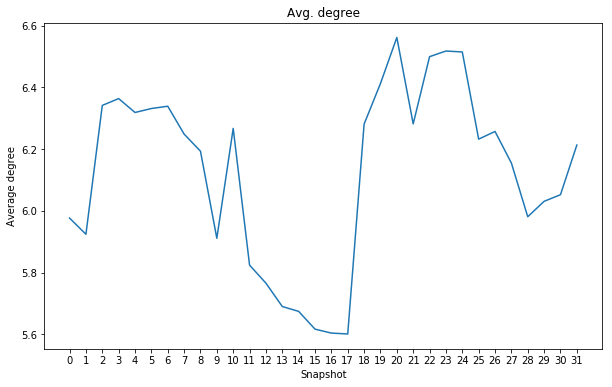
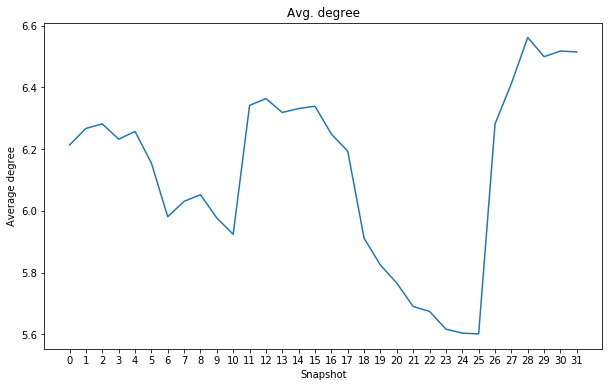
JESUS CHRIST everything was wrong
Fixed the dataset, images updated with new data and corrected
portions of thesis when the erronous data was being examined. Almost
done with k-connnectivity.

diff --git a/results/results.tex b/results/results.tex
@@ -205,13 +205,13 @@
 		\label{monthly_nodes}
 	\end{figure}
 	
-	Figure \ref{monthly_nodes} displays the trend of the churning nodes from May 15th to June 27h. Differently from what has been observed on the daily trends, here the gaps between the number of nodes across the various snapshot is more pronounced even though the overall variation at the end of the observation period results only to be +1.03\%, however the maximum size the network reached was 886 nodes while the lowest was 682.
+	Figure \ref{monthly_nodes} displays the trend of the churning nodes from May 15th to June 27h. Differently from what has been observed on the daily trends, here the overall variation at the end of the observation period is, as expected, more pronounced as the size of the network has seen a +13.73\% joining rate.
 	
 	\begin{center}
 		\begin{tabulary}{\linewidth}{| L | C | C | C | C | C |}
 			\hline	
 			& Starting nodes & Final nodes  & Variation(\%) & Max num. of nodes & Min num. of nodes \\ \hline
-			May 15th - June 27th & 771 & 779 & +1.03\% & 886 & 682 \\ \hline
+			May 15th - June 27th & 779 & 886 & +13.73\% & 886 & 682 \\ \hline
 		\end{tabulary}
 	\end{center}
 	
@@ -223,13 +223,13 @@
 		\label{monthly_edges}
 	\end{figure}
 
-	Edges trend follow the same nodes trend as it has been already showed with the daily trends. Here the gap between highs and lows are even more pronounced due to the fact that it is likely that nodes have more than one channel towards other nodes. This graph helps to understand better the dynamic nature of the Lightning Network channels, as the churning rate of edges is higher than the one accounting for the nodes. 
+	Edges trend follow the same nodes trend as it has been already showed with the daily trends. Here the gap between highs and lows are even more pronounced due to the fact that it is likely that nodes have more than one channel towards other nodes and this is reflected by the variation observed with respect to the nodes, being it +19.25\%. This graph helps to understand better the dynamic nature of the Lightning Network channels, as the churning rate of edges is higher than the one accounting for the nodes. 
 	
 	\begin{center}
 		\begin{tabulary}{\linewidth}{| L | C | C | C | C | C |}
 			\hline	
 			& Starting channels & Final channels  & Variation(\%) & Max num. of channels & Min num. of channels \\ \hline
-			May 15th - June 27th & 2304 & 2420 & +5.03\% & 2886 & 1910 \\ \hline
+			May 15th - June 27th & 2420 & 2886 & +19.25\% & 2886 & 1910 \\ \hline
 		\end{tabulary}
 	\end{center}
 	
@@ -248,13 +248,13 @@
 		\begin{tabulary}{\linewidth}{| L | C | C | C | C | C |}
 			\hline	
 			& Starting degree (avg.) & Final degree (avg.)  & Variation(\%) & Max avg.degree & Min avg. degree \\ \hline
-			May 15th - June 27th & 5.97 & 6..21 & +3.95\% & 6.56 & 5.60 \\ \hline
+			May 15th - June 27th & 6.21 & 6.51 & +4.85\% & 6.56 & 5.60 \\ \hline
 		\end{tabulary}
 	\end{center}
 	
 	\subsection{Monthly diameter}
 	
-	The diameter essentially falls within the already known bounds found during their analysis over a daily time window, although, thanks to a wider observation period, it is possible to see how frequent the oscillation between different diameters are. The network diameter oscillates between 7 and 8 and the importance of this data will be better explained in the next session, but shortly, if a payment uses the geodesic distance as the preferred method to deliver funds, then it would mean that in the worst case there is the need to cross 7 (or 8) channels before reaching the desired peer. Keeping track of this feature may help to balance the network in a way so that new channels can fill the gap between less connected clusters.
+	The diameter essentially falls within the already known bounds found during their analysis over a daily time window, although, thanks to a wider observation period, it is possible to see how frequent the oscillation between different diameters are. In the case in exam, the plot shows a period in which the network has seen an increase that lasted for 22 days. the importance of this data will be better explained in the next session, but shortly, if a payment uses the geodesic distance as the preferred method to deliver funds, then it would mean that in the worst case there is the need to cross 7 (or 8) channels before reaching the desired peer. Keeping track of this feature may help to balance the network in a way so that new channels can fill the gap between less connected clusters or to be aware of failures of central nodes.
 	
 	\begin{figure}
 		\centering
@@ -315,9 +315,9 @@
 	
 	\begin{figure}
 		\centering
-		\includegraphics[width=\linewidth]{monthy_gantt_chart}
-		\caption{The graph represents the nodes that occupied the first 5 position whose score was the best among the rest of the other nodes.}
-		\label{monthly_gantt}
+		\includegraphics[width=\linewidth]{monthly_betweenness_centrality}
+		\caption{Betweenness Centrality (Monthly)}
+		\label{monthly_betweenness_centrality}
 	\end{figure}		
 	
 	The data in Figure \ref{daily_betweenness} picks the top 5 nodes according to their betweenness centrality aggregated score. The aggregated score means that the centrality gets first evaluated for every node of the intersection $V = \{V_1 \cap V_2 \cap \cdots V_k \}$, where $k$ is the number of snapshot and $V_i$ being the set of nodes of each snapshot, then
@@ -332,25 +332,60 @@
 	
 	\begin{figure}
 		\centering
-		\includegraphics[width=\linewidth]{monthly_betweenness_centrality}
-		\caption{Betweenness Centrality (Monthly)}
-		\label{monthly_betweenness_centrality}
+		\includegraphics[width=\linewidth]{monthly_gantt_chart}
+		\caption{The graph represents the nodes that occupied the first 5 position whose score was the best among the rest of the other nodes.}
+		\label{monthly_gantt}
 	\end{figure}
 
 	As expected, the scores appear to be constant or with low variations along the 144 snapshots. The nodes are identified by the first five characters of their public key, and by looking at those IDs it emerges that the set is different for all their snapshot meaning that indeed new nodes joined the network during the five days elapsed between each snapshot and attached to already well established nodes. 
 	
-	Figure \ref{monthly_gantt} shows which nodes occupied the first five positions during the period that goes from May 15th to June 27th. For each day, the nodes that scored the highest betweenness centrality score are showed here, for a total of 9 nodes that alternates each other throughout the observation period. This plot helps to keep track of the different set of nodes observed in the daily plots, and to understand better the mobility of a node in the network since the betweenness centrality largely depends essentially on how many open channels are between the node and the rest of the network.
-	
 	This aspect is even more pronounced if we look at Figure \ref{monthly_betweenness_centrality} where the monthly behavior is displayed and thanks to this metric is possible to investigate deeper on nodes and events that occurred during the observation period. 
 	
-	For example it has been noted that, on average, the total number of neighbors of these five nodes is 486.125, accounting for 62,7\% of the overall size of network. Such a high centrality score also suggests that the neighbors may only have a single channel that keeps them connected to the largest connected component. By removing these five nodes from the latest snapshot, the graph gets partitioned into 234 subgraphs: the largest subgraph among these contain 532 nodes (which is the Lightning Network itself) while the number of nodes of the remaining subgraphs is 242. Of these 242 nodes, 228 were single channel nodes.
+	For example it has been noted that, on average, the total number of neighbors of these five nodes is 486.125, accounting for 62,7\% of the overall size of network. Such a high centrality score also suggests that the neighbors may only have a single channel that keeps them connected to the largest connected component. By removing these five nodes from the latest snapshot, the graph gets partitioned into 234 subgraphs: the largest subgraph among these contains 532 nodes (which is the Lightning Network itself) while the number of nodes of the remaining subgraphs is 242. Of these 242 nodes, 228 were single channel nodes.
 
+	It is then possible to investigate over some peculiar events like the one happened during snapshot 10 and 11, where node \textit{03e5f9} lost suddenly its centrality over 24 hours: 
+	from day 0 through day 10 the node was performing first among the others for betweenness centrality score. On day 11, the node dropped from 196 nodes to 37 as it closed channels with 159 peers; out of these 159 peers, 98 of them were single channel nodes, effectively disconnecting them from the rest of the network making node \textit{03e5f9} the single point of failure for the 12\% of the total nodes. Unfortunately it's impossible to determine the causes that led to such a drop as it may be happened because of saturated channel balances, unresponsive nodes or internal errors on their server.
 	
-	Furthermore, it is possible to investigate over some peculiar events like the one happened during snapshot 9 and 10, where node \textit{03e5f9} jumped on top of nodes for betweenness score: during snapshot 9, the node had 31 neighbors and ranked fairly low for betweenness centrality score; the day after (snapshot 10) has seen 199 new nodes joining the network and 175 of these nodes connected to \textit{03e5f9}, making it the most central node of the network. Since an event like this, 175 new nodes in a day, is quite unusual for this payment system, it emerged that out of this 175 new nodes, 172 of them were already neighbors of node \textit{03e5f9} during snapshot 0, so it may be possible that the node willingly forced most of its channel to close on day 2, and this behavior is repeated on day 11th and day 22th.
+	Contrary to Figure \ref{monthly_betweenness_centrality}, Figure \ref{monthly_gantt} shows which nodes occupied the first five positions during the very same period, independently from their aggregated score, that is, the graph shows only the node that were top 5 for each day of the time interval in exam, for a total of 9 nodes that alternates each other throughout the observation period. This plot helps better to understand the stability of a node, since a central node will likely perform better than peripheral nodes when it comes to payments delegation, also we'd like a node that is stable because as it has been showed with node \textit{03e5f9} a crash would be disruptive for the network health.
 	
-	By looking at the history of the betweenness centrality is then possible to understand better the reliability of a particular nodes. It also helps preventing that nodes get too centralized as the network becomes more similar to a centralized hubs network rather than a decentralized one: the autopilot feature of Lightning Network may check the whole network betweenness centrality to balance out the new channels establishment with the current topology in order to decrease the centrality and the maximum diameter of the network.
+	By looking at the history of the betweenness centrality is then possible to understand better the reliability of particular nodes. It also helps preventing that nodes get too centralized as the network becomes more similar to a centralized hubs network rather than a decentralized one: the autopilot feature of Lightning Network may check the whole network betweenness centrality to balance out the new channels establishment with the current topology in order to decrease the centrality and the maximum diameter of the network. On the other hand, clients may want to give up the decentralization feature to embrace a more reliable 
+	
+	\newpage
 	
 	\section{\textit{k}-vertex connectivity}
+	
+	\textit{k}-vertex connectivity gives an important outlook when it comes to robustness. In graph theory a graph $G = (V,E)$ is said to be \textit{k}-vertex connected if for every pair of vertices there are \textit{k}-vertex indipendent paths connecting these vertices, or in other words, \textit{k} is the size of the smallest subset of vertices such that the graph becomes disconnected if deleted. It is trivial then that complete graphs do not fall into this definition since a complete graph cannot be disconnected by removing vertices. Furthemore, if a complete graph has n-vertices, then by the above definition it falls in the class of \textit{(n - 1)}-vertex connectivity.
+	
+	However, computing the k-vertex connectivity alone over the snapshots is not particulary useful as the Lightning Network, being a connnected network, will always be a 1-vertex connected graph. Nonetheless, it's very likely that inside the 1-vertex connected component there may be others, stronger, connected components, i.e. there may exists subgraphs whose k-vertex connectivities are higher than their supergraph. This kind of reasoning can be applied iteratively until it's impossible to find any new subgraph whose k-vertex connectivity is higher than their subgraphs.
+	
+	The algorithm used to perform this task has been proposed by James Moody and Douglas R. White \cite{Moody2003} based on their research over cohesion in social groups. It returns the k-component structure of a graph G, where a k-component is a maximal subgraph of G that has at least node connectivity k. The algorithm works as follow:
+	\begin{enumerate}
+		\item Compute node connectivity k of the input graph.
+		\item Identify all k-cutsets at the current level of connectivity. 
+		\item Generate new graph components based on the removal of these cutsets. Nodes in a cutset belong to both sides of the induced cut.
+		\item If the graph is neither complete nor trivial, return to 1; else end.
+	\end{enumerate}
+	
+	The algorithm has been running over the 32 snapshots. What emerged is an inherent hierarchical structure of the network where the innermost components shows a high k-vertex connectivity (or cohesive degree) compared to the most peripheral nodes. Trivially, as the connectivity increases, the vulnerability to isolated actions performed unilaterally by some (byzantine) nodes decreases such that the degree of actions of any malicious attacker depends on at least $k$ components of the subgraph.
+	
+	\begin{figure}
+		\includegraphics[width=\linewidth]{k_connectivity_average_size}\\
+		\caption{Average size for each components for every snapshot taken from May 15th to June 27th}
+		\label{monthly_connectivity_average}
+	\end{figure}
+	
+	The data presented in Figure \ref{monthly_connectivity_average} represents the average size of each component over the 32 snapshots in exam. The orange bars represent the mean value of every component while the black lines represent their standard deviation. Even though there are represented up to 15 components, it is not necessary true that the maximum k-vertex size is indeed 15. What the graph suggest is that if there exists a k-component over a particular snapshot, it is likely that the $k$-th component size will be on average like the corresponding value depicted in Figure \ref{monthly_connectivity_average}.
+	
+	The 1-connected component is trivially the average of the graph sizes over the 32 captures; indeed every 1-connected component size is equal to the graph order of the relative snapshot. More than 50\% of the network is a biconnected subgraph (2-vertex connected graph) meaning that it is resilient up to one node failure and as we move right in the plot the graph gets more and more resistant to node failures. 
+	
+	
+	Dove è stato applicato questo algoritmo
+	Cosa ne è uscito fuori (struttura)
+	Come è possibile rappresentarne la struttura
+	interessanti proprietà (inclusione con la betweenness centrality)
+	perchè è interessante analizzarlo
+	utilità: sponsorizzare nodi in cui viene promosso il fatto di far parte di una cricca resiliente ai failure
+		
 	\subsection{Components size}
 	\subsection{Betweenness inclusion}
 	\section{Max-Cut}

diff --git a/material_methods/material_methods.tex b/material_methods/material_methods.tex
@@ -119,5 +119,5 @@
 	
 	\section{Analisys Tools}
 	
-	The tools used to carry the data analysis were Matlab and NetworkX, a framework written in Python designed around graph exploration that offer plenty of functionalities in terms of state of the art techniques and methodologies, allowing the study of the dynamics, structures and functions of complex network and their creation and manipulation. A special version of Python was installed for this task, the Anaconda platform, which comprises more than one thousand and four hundred ready-to-use scientific packages alongside with matplotlib package for plotting graphs. All the code that was written ran on Python Jupiter Notebook, an interactive environment in which is possible to combine code to be executed, markdown formatted text, and media visualization.
+	The tools used to carry the data analysis were Matlab and NetworkX \cite{Hagberg2008}, a framework written in Python designed around graph exploration that offer plenty of functionalities in terms of state of the art techniques and methodologies, allowing the study of the dynamics, structures and functions of complex network and their creation and manipulation. A special version of Python was installed for this task, the Anaconda platform, which comprises more than one thousand and four hundred ready-to-use scientific packages alongside with matplotlib package for plotting graphs. All the code that was written ran on Python Jupiter Notebook, an interactive environment in which is possible to combine code to be executed, markdown formatted text, and media visualization.
 \end{document}
